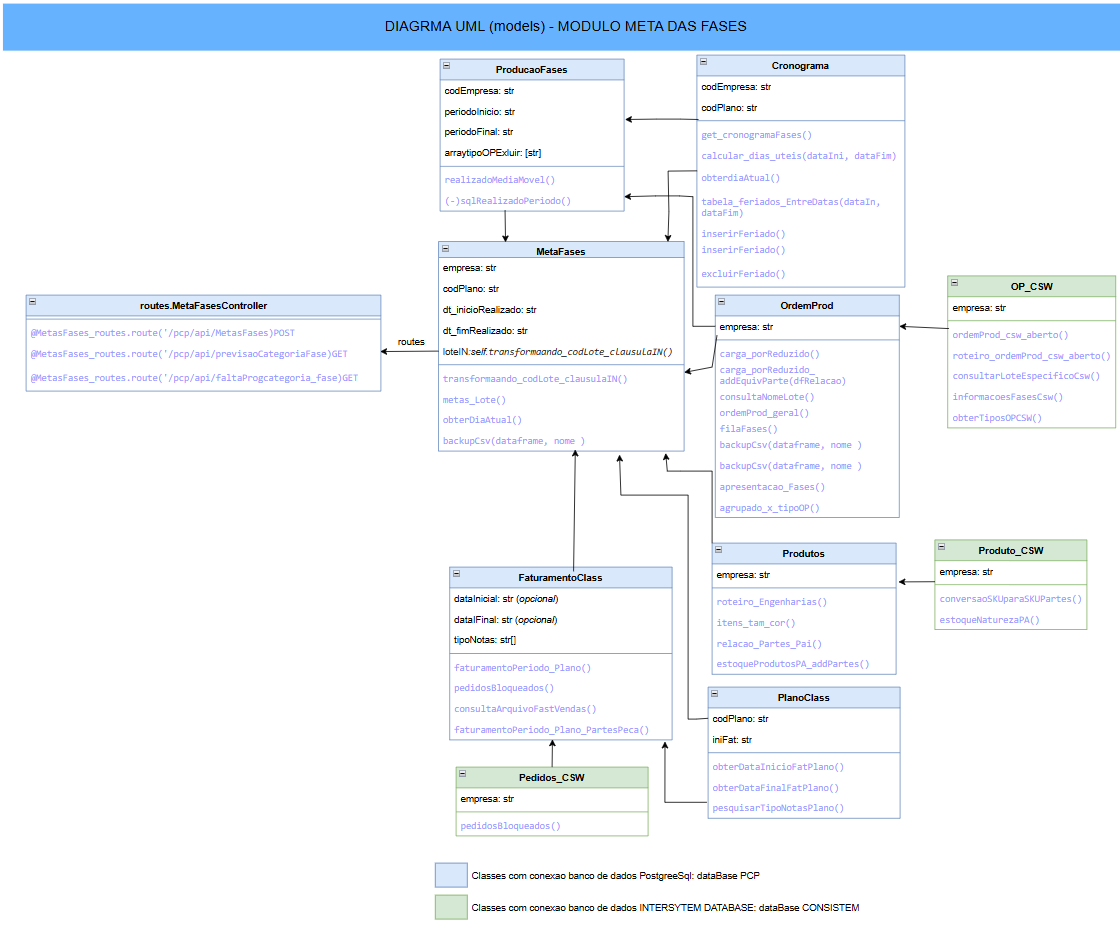
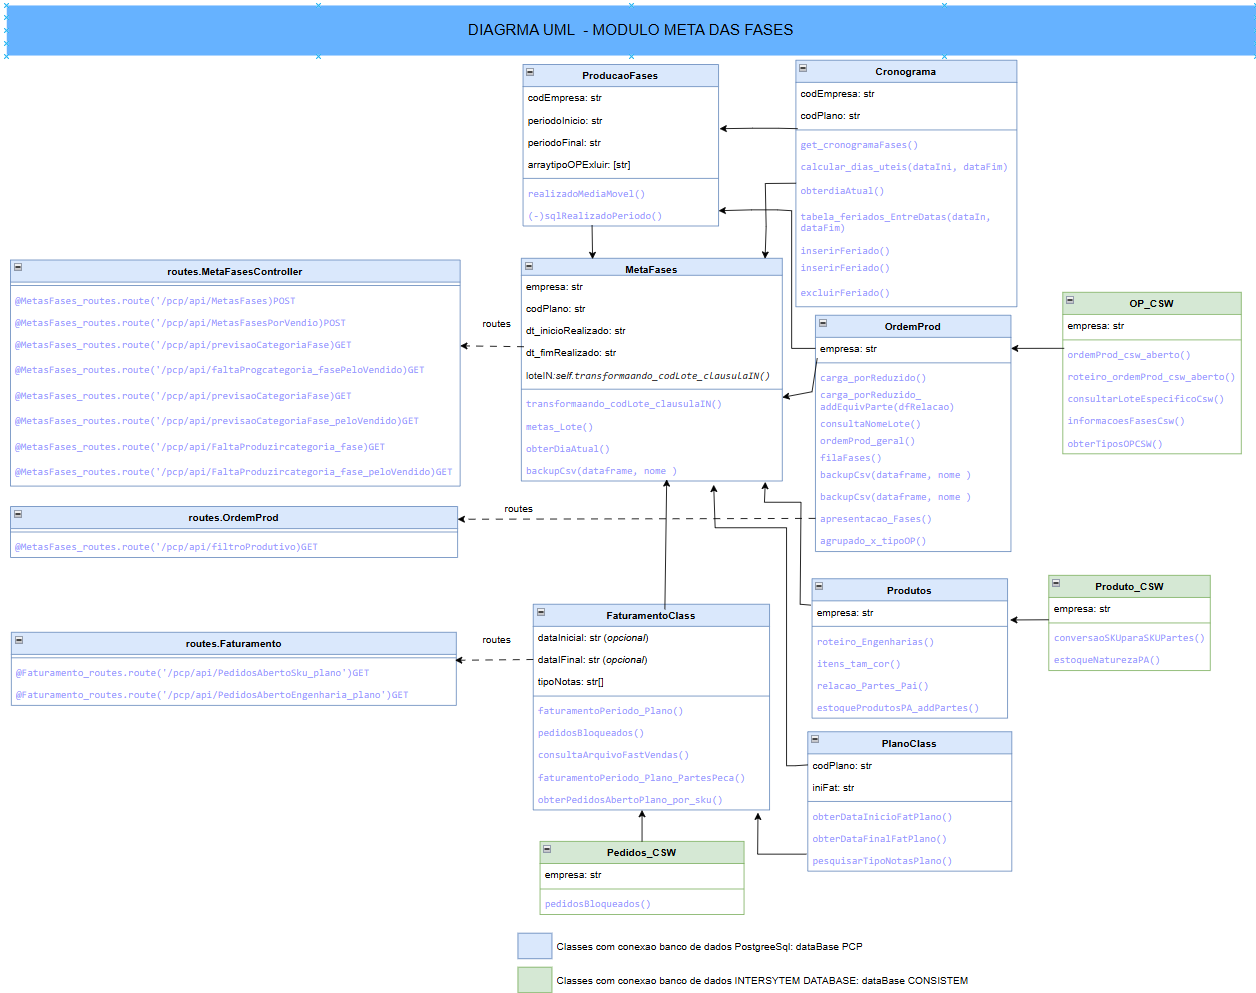
incluindo opsao de backup Falta Programar POST

diff --git a/src/routes/MetaFasesController.py b/src/routes/MetaFasesController.py
@@ -92,12 +92,14 @@ def pOST_MetasFasesPorVendido():
     return jsonify(OP_data)
 
 
-@MetasFases_routes.route('/pcp/api/previsaoCategoriaFase', methods=['GET'])
+@MetasFases_routes.route('/pcp/api/previsaoCategoriaFase', methods=['POST'])
 @token_required
 def get_previsaoCategoriaFase():
     nomeFase = request.args.get('nomeFase', '-')
+    codigoPlano = request.args.get('codigoPlano')
+    arrayCodLoteCsw = request.args.get('arrayCodLoteCsw', '-')
 
-    meta = MetaFases.MetaFases('','',nomeFase)
+    meta = MetaFases.MetaFases(codigoPlano,'',nomeFase,'','','',arrayCodLoteCsw)
 
     dados = meta.previsao_categoria_fase()
 

diff --git a/src/models/MetaFases.py b/src/models/MetaFases.py
@@ -370,7 +370,7 @@ class MetaFases():
         '''Metodo que obtem o previsto em cada fase por categoria '''
         caminhoAbsoluto = configApp.localProjeto
 
-        previsao = pd.read_csv(f'{caminhoAbsoluto}/dados/analiseFaltaProgrFases.csv')
+        previsao = pd.read_csv(f'{caminhoAbsoluto}/dados/analiseFaltaProgrFases_{self.codPlano}_{self.loteIN}.csv')
 
         previsao = previsao[previsao['nomeFase'] == self.nomeFase].reset_index()
         previsao = previsao.groupby(["categoria"]).agg({"previsao":"sum"}).reset_index()
